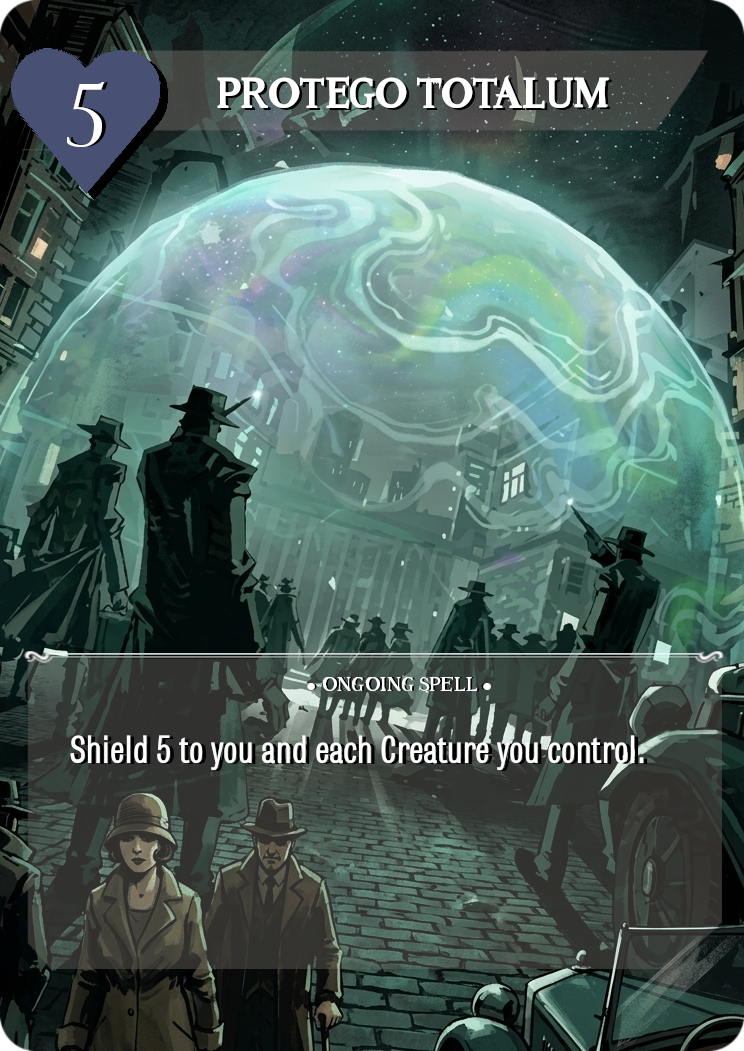
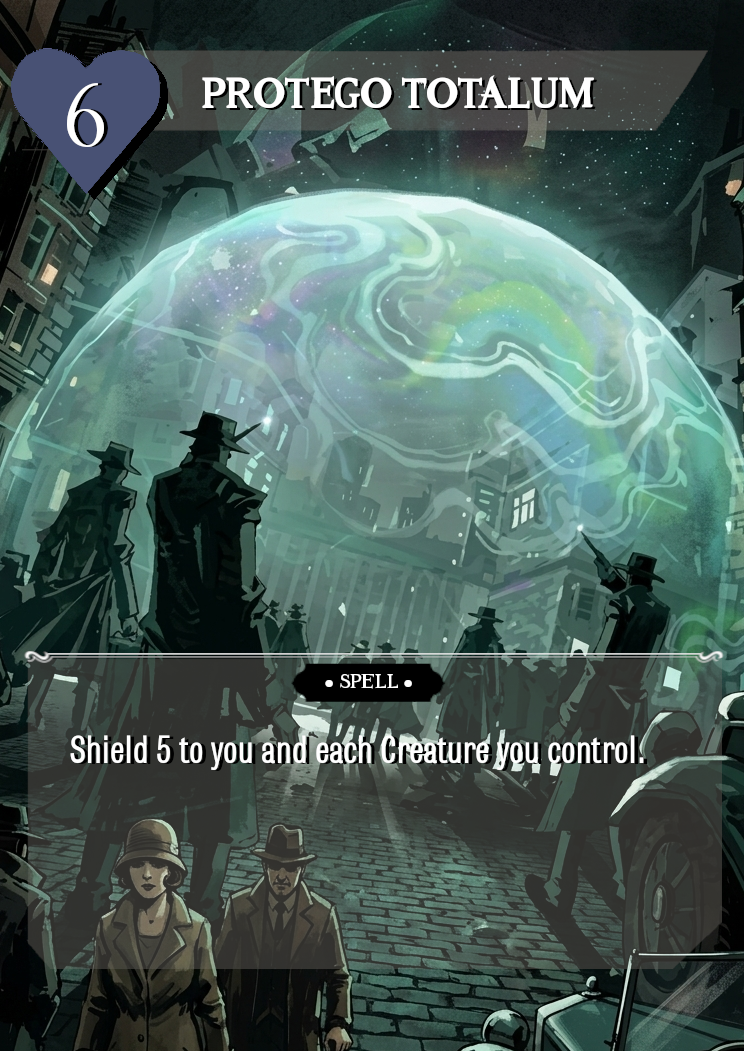
v1.80 New cards

diff --git a/index.html b/index.html
@@ -185,7 +185,7 @@
 <div class="modal" id="deckCodeModal" style="z-index:1100;width:min(620px,94vw)"><div style="display:flex;justify-content:space-between;align-items:center;gap:8px"><h2 id="deckCodeTitle" style="margin:0">Deck Code</h2><button onclick="closeDeckCodeModal()">Close</button></div><p id="deckCodeHelp"></p><textarea id="deckCodeInput" spellcheck="false" style="width:100%;height:135px;resize:vertical;background:#0e1116;color:#eee;border:1px solid #48515e;border-radius:7px;padding:10px;font:12px monospace;margin:8px 0"></textarea><div style="display:flex;justify-content:flex-end;gap:8px"><button id="deckCodeCopy" onclick="copyDeckCode()">Copy Code</button><button id="deckCodeImport" onclick="importDeckCode()">Import Deck</button></div></div><div class="deckModal" id="deckModal"><div class="deckBox"><div class="deckHead"><b id="deckTitle">Deck</b><button onclick="closeDeckViewer()">Close</button></div><div class="deckControls" id="deckControls"></div><div class="deckCards" id="deckCards"></div></div></div><script src="https://cdn.jsdelivr.net/npm/@supabase/supabase-js@2/dist/umd/supabase.js"></script><script>
 let id=1,phase='setup',turn=1,sel=null,selDeck=null,viewPlayer=1;const P={1:newP(),2:newP()};function newP(){return{main:[],lessonDeck:[],hand:[],handRevealed:false,lessons:[],play:[],discard:[],lessonDiscard:[],mull:[],char:null,life:20,actionsLeft:2,lessonsPlayed:0,dobbyUsed:false}}
 let history=[];function snapshot(){return JSON.parse(JSON.stringify({P,phase,turn}));}function pushHistory(){if(phase!=='game')return;history.push(snapshot());if(history.length>50)history.shift();}function undoMove(){if(lobbyMode==='invite'&&onlineStarted){requestOnlineUndo();return}if(phase!=='game'||!history.length){toast('Nothing to undo.');return}let h=history.pop();Object.keys(P).forEach(k=>P[k]=h.P[k]);phase=h.phase;turn=h.turn;sel=null;selDeck=null;render();document.getElementById('status').textContent='Player '+turn+' Turn';toast('Last action undone.')}
-const CARD_DB={"Harry Potter":{"type":"Ally","domain":"Neutral","cost":0,"effect":"Once per turn, when you play your second card, draw 1 card.","image":"cards/allies/char_harry.png"},"Ron Weasley":{"type":"Ally","domain":"Neutral","cost":0,"effect":"When you play an Ally, it costs 1 Action instead of 2.","image":"cards/allies/char_ron.png"},"Hermione Granger":{"type":"Ally","domain":"Neutral","cost":0,"effect":"Once per turn, when you play your second spell, draw 1 Lesson.","image":"cards/allies/char_hermione.png"},"Luna Lovegood":{"type":"Ally","domain":"Neutral","cost":0,"effect":"Once per turn, if you control 6 or more Lessons, you may discard 2 Lessons to create a Thestral Token.","image":"cards/allies/char_luna.png"},"Neville Longbottom":{"type":"Ally","domain":"Neutral","cost":0,"effect":"Once per turn, when you play a Creature, you may restore 2 Health to a Creature or Player.","image":"cards/allies/char_neville.png"},"Dobby":{"type":"Ally","domain":"Neutral","cost":0,"effect":"Once per turn, you may discard 2 Lessons to destroy a Spell targeting you.","image":"cards/allies/char_dobby.png"},"Aquamenti":{"type":"Spell","domain":"Charms","cost":2,"effect":"Deal 2 damage to a Creature or player.","image":"cards/charms/charm_aguamenti.png"},"Flipendo":{"type":"Quick Spell","domain":"Charms","cost":2,"effect":"Return a Creature with a Cost of 3 or less to its owner's hand.","image":"cards/charms/charm_flipendo.png"},"Stupefy":{"type":"Spell","domain":"Charms","cost":2,"effect":"Deal 2 damage to a Creature or Player. If your opponent controls exactly one Creature, deal 2 additional damage to that Creature or the player.","image":"cards/charms/charm_stupefy.png"},"Episkey":{"type":"Spell","domain":"Charms","cost":2,"effect":"Restore 4 Health to a Creature or Player.","image":"cards/charms/charm_episkey.png"},"Expelliarmus":{"type":"Spell","domain":"Charms","cost":3,"effect":"Deal 2 damage to a Player. Additional Cost — Discard 1 Lesson: Destroy an Ongoing Spell or an Item.","image":"cards/charms/charm_expelliarmus.png"},"Priori Incantatem":{"type":"Spell","domain":"Charms","cost":3,"effect":"Discard a card from your hand. Return a Spell from your discard pile to your hand.","image":"cards/charms/charm_priori.png"},"Protego":{"type":"Quick Spell","domain":"Charms","cost":3,"effect":"Shield 5 to a target.","image":"cards/charms/charm_protego.png"},"Atmospheric Charm":{"type":"Spell","domain":"Charms","cost":5,"effect":"Each Player shuffles their hand into their deck, then draws 4 cards.","image":"cards/charms/charm_atmospheric.png"},"Incendio":{"type":"Spell","domain":"Charms","cost":5,"effect":"Deal 4 damage to a target and 1 damage to each other valid target in play.","image":"cards/charms/charm_incendio.png"},"Reducto":{"type":"Spell","domain":"Charms","cost":6,"effect":"Deal 1 damage to your opponent, plus 1 additional damage for each damage they have taken.","image":"cards/charms/charm_reducto.png"},"Wildfire Whiz Bangs":{"type":"Spell","domain":"Charms","cost":7,"effect":"Deal 7 damage to a Creature or Player.","image":"cards/charms/charm_whizbangs.png"},"Apparate":{"type":"Quick Spell","domain":"Transfiguration","cost":1,"effect":"Choose one: Destroy a Location; or destroy a Spell targeting you.","image":"cards/transfiguration/transf_apparate.png"},"Avis":{"type":"Spell","domain":"Transfiguration","cost":2,"effect":"Additional Cost — Discard 1 Transfiguration Lesson: Create 2 Bird Tokens.","image":"cards/transfiguration/transf_avis.png"},"Confundus":{"type":"Quick Spell","domain":"Transfiguration","cost":2,"effect":"Choose one: Look at your opponent's hand; or return a Spell your opponent is playing to their hand.","image":"cards/transfiguration/transf_confundus.png"},"Incarcerous":{"type":"Spell","domain":"Transfiguration","cost":2,"effect":"The next Spell you play this turn that targets an opponent's card affects all valid targets controlled by that opponent instead of one.","image":"cards/transfiguration/transf_incarcerous.png"},"Bat Bogey Hex":{"type":"Quick Spell","domain":"Transfiguration","cost":3,"effect":"Destroy a Spell with a Cost of 4 or less. If you do, draw a card.","image":"cards/transfiguration/transf_batbogeyhex.png"},"Glacius":{"type":"Ongoing Spell","domain":"Transfiguration","cost":2,"effect":"Countdown 1: Freeze a target.","image":"cards/transfiguration/transf_glacius.png"},"Glacius Maxima":{"type":"Ongoing Spell","domain":"Transfiguration","cost":4,"effect":"Countdown 2: Freeze up to 3 targets.","image":"cards/transfiguration/transf_glaciusmaxima.png"},"Oppugno":{"type":"Ongoing Spell","domain":"Transfiguration","cost":3,"effect":"Countdown 1: Deal 1 damage to a Player, plus 1 additional damage for every 2 Creatures you control.","image":"cards/transfiguration/transf_oppugno.png"},"Petrificus Totalus":{"type":"Quick Spell","domain":"Transfiguration","cost":3,"effect":"Choose one: Destroy an ally; or freeze a creature.","image":"cards/transfiguration/transf_petrificus.png"},"Carpe Retractum":{"type":"Spell","domain":"Transfiguration","cost":3,"effect":"Return up to 2 items you control to your hand.","image":"cards/transfiguration/transf_carperetractum.png"},"Piertotum Locomotor":{"type":"Spell","domain":"Transfiguration","cost":6,"effect":"Create 2 Stone Guardian Tokens.","image":"cards/transfiguration/transf_piertotum.png"},"Pawn":{"type":"Creature","domain":"Neutral","cost":2,"health":1,"damage":1,"effect":"When this is destroyed: draw 1 card.","image":"cards/creatures/creature_pawn.png"},"Bowtruckle":{"type":"Creature","domain":"Neutral","cost":2,"health":2,"damage":1,"effect":"When this enters play: look at the top 3 cards of your deck. You may reveal an Item among them and put it into your hand. Put the rest on the bottom.","image":"cards/creatures/creature_bowtruckle.png"},"Mooncalf":{"type":"Creature","domain":"Neutral","cost":2,"health":2,"damage":1,"effect":"The first time you play a Lesson each turn: Mooncalf gets +1 Damage until end of turn.","image":"cards/creatures/creature_mooncalf.png"},"Niffler":{"type":"Creature","domain":"Neutral","cost":2,"health":2,"damage":0,"effect":"Niffler counts as a Lesson while in play.","image":"cards/creatures/creature_niffler.png"},"Pixies":{"type":"Creature","domain":"Neutral","cost":2,"health":1,"damage":2,"effect":"When this enters play: if you control another Creature, draw 1 card.","image":"cards/creatures/creature_pixies.png"},"Snowman":{"type":"Creature","domain":"Neutral","cost":2,"health":3,"damage":1,"effect":"When this deals damage to a Player, Freeze an opposing Creature.","image":"cards/creatures/creature_snowman.png"},"Firecrab":{"type":"Creature","domain":"Neutral","cost":3,"health":4,"damage":2,"effect":"Block (You must deal damage to me first).","image":"cards/creatures/creature_firecrab.png"},"Monster Book":{"type":"Creature","domain":"Neutral","cost":3,"health":3,"damage":2,"effect":"When this enters play: return a Spell with Cost 3 or less from your discard pile to your hand.","image":"cards/creatures/creature_mosterbook.png"},"Transfiguration Lesson":{"type":"Lesson","cost":0,"domain":"Transfiguration","image":"cards/lessons/lesson_transfiguration.png"},"Charm Lesson":{"type":"Lesson","cost":0,"domain":"Charms","image":"cards/lessons/lesson_charm.png"},"Quidditch Lesson":{"type":"Lesson","cost":0,"domain":"Quidditch","image":"cards/lessons/lesson_quidditch.png"},"Potions & Items Lesson":{"type":"Lesson","cost":0,"domain":"Potions","image":"cards/lessons/lesson_potions.png"},"Dark Arts Lesson":{"type":"Lesson","cost":0,"domain":"Dark Arts","image":"cards/lessons/lesson_dark.png"},"Flying Broom":{"type":"Item","domain":"Quidditch","cost":2,"effect":"When this enters play, choose one: Draw 1 card or Discard a card to Draw a lesson.","image":"cards/quidditch/quidd_broom.png"},"Golden Snitch":{"type":"Item","domain":"Quidditch","cost":2,"effect":"When this enters play or is returned to its owner's hand, you may draw 1 card.","image":"cards/quidditch/quidd_snitch.png"},"Golden Snidget":{"type":"Creature","domain":"Quidditch","cost":2,"life":2,"damage":2,"effect":"Whenever this deals damage to a Player, draw a card.","image":"cards/quidditch/quidd_snidget.png"},"Bludger":{"type":"Item","domain":"Quidditch","cost":3,"effect":"When this enters play or is returned to its owner's hand, deal 2 damage to a target.","image":"cards/quidditch/quidd_bludger.png"},"Quidditch Kit":{"type":"Item","domain":"Quidditch","cost":3,"effect":"The first time you play a Quidditch card each turn, look at the top 2 cards of your deck. Put one into your hand and the other on the bottom.","image":"cards/quidditch/quidd_kit.png"},"Winged Catapult":{"type":"Creature","domain":"Quidditch","cost":3,"life":3,"damage":2,"effect":"Whenever this deals damage to a Player, look at the top card of your deck. You may put it on the bottom.","image":"cards/quidditch/quidd_winged.png"},"Beater":{"type":"Ally","domain":"Quidditch","cost":"-","effect":"Once per turn, you may discard a card: Return a Quidditch Item to its owner's hand.","image":"cards/quidditch/quidd_beater.png"},"Seeker":{"type":"Ally","domain":"Quidditch","cost":"-","effect":"Once per turn, search your deck for a Golden Snitch or Quidditch Item, reveal it, put it into your hand, then shuffle.","image":"cards/quidditch/quidd_seeker.png"},"Guardian":{"type":"Ally","domain":"Quidditch","cost":"-","effect":"When damage would be dealt to you or a Quidditch Creature you control, discard me to prevent that damage.","image":"cards/quidditch/quidd_guardian.png"},"Memory Vial":{"type":"Item","domain":"Potions","cost":3,"effect":"Once per turn, you may discard a card from your hand to draw a Lesson.","image":"cards/potions/potinos_memoryvial.png"},"Weasley Firework Box":{"type":"Item","domain":"Potions","cost":4,"effect":"All the creatures your control deal 1 aditional damage.","image":"cards/potions/potinos_wealeyfireworks.png"},"Stone Guardian":{"type":"Creature","domain":"Neutral","cost":0,"health":4,"life":4,"damage":1,"effect":"Block (You must deal damage to me first).","image":"cards/tokens/token_stoneguardian.png","token":true},"Luna's Thestral":{"type":"Creature","domain":"Neutral","cost":0,"health":3,"life":3,"damage":3,"effect":"Sacrifice this and discard 2 Lessons: Deal 2 damage to a target, plus 1 additional damage for each Spell in your discard pile.","image":"cards/tokens/token_thestrals.png","token":true},"Magical Birds":{"type":"Creature","domain":"Neutral","cost":0,"health":1,"life":1,"damage":1,"effect":"","image":"cards/tokens/token_magicalbirds.png","token":true},"Diffindo":{"type":"Spell","domain":"Transfiguration","cost":5,"effect":"Deal 3 damage to a target. Then, deal 3 damage to each Frozen target.","image":"cards/transfiguration/transf_diffindo.png"},"Yeti":{"type":"Creature","domain":"Neutral","cost":5,"health":5,"damage":3,"effect":"Countdown 2: Freeze up to 3 targets.","image":"cards/creatures/creature_yeti.png"},"Orb of Water":{"type":"Ongoing Spell","domain":"Transfiguration","cost":6,"effect":"Countdown 1: Freeze up to 3 targets and deal 1 damage to each of them. When this card is discarded, deal 3 damage to the same targets.","image":"cards/transfiguration/transf_orb.png"},"Accio":{"type":"Spell","domain":"Charms","cost":3,"effect":"Return a Lesson from your discard pile to play.","image":"cards/charms/charm_accio.png"},"Wingardium Leviosa":{"type":"Spell","domain":"Charms","cost":3,"effect":"Additional Cost — Discard 1 Lesson: You may return an Item you control to your hand. If you paid the additional cost, return an Item from your discard pile to your hand.","image":"cards/charms/charm_wingardium.png"}};const BACKS={main:'cards/backs/main_back.png',lesson:'cards/backs/lesson_back.png'};const cards=Object.entries(CARD_DB).filter(([n,d])=>d.type!=='Lesson'&&!d.token).map(([n,d])=>[n,d.type,d.cost]);
+const CARD_DB={"Harry Potter":{"type":"Ally","domain":"Neutral","cost":0,"effect":"Once per turn, when you play your second card, draw 1 card.","image":"cards/allies/char_harry.png"},"Ron Weasley":{"type":"Ally","domain":"Neutral","cost":0,"effect":"When you play an Ally, it costs 1 Action instead of 2.","image":"cards/allies/char_ron.png"},"Hermione Granger":{"type":"Ally","domain":"Neutral","cost":0,"effect":"Once per turn, when you play your second spell, draw 1 Lesson.","image":"cards/allies/char_hermione.png"},"Luna Lovegood":{"type":"Ally","domain":"Neutral","cost":0,"effect":"Once per turn, if you control 6 or more Lessons, you may discard 2 Lessons to create a Thestral Token.","image":"cards/allies/char_luna.png"},"Neville Longbottom":{"type":"Ally","domain":"Neutral","cost":0,"effect":"Once per turn, when you play a Creature, you may restore 2 Health to a Creature or Player.","image":"cards/allies/char_neville.png"},"Dobby":{"type":"Ally","domain":"Neutral","cost":0,"effect":"Once per turn, you may discard 2 Lessons to destroy a Spell targeting you.","image":"cards/allies/char_dobby.png"},"Aquamenti":{"type":"Spell","domain":"Charms","cost":2,"effect":"Deal 2 damage to a Creature or player.","image":"cards/charms/charm_aguamenti.png"},"Flipendo":{"type":"Quick Spell","domain":"Charms","cost":2,"effect":"Return a Creature with a Cost of 3 or less to its owner's hand.","image":"cards/charms/charm_flipendo.png"},"Stupefy":{"type":"Spell","domain":"Charms","cost":2,"effect":"Deal 2 damage to a Creature or Player. If your opponent controls exactly one Creature, deal 2 additional damage to that Creature or the player.","image":"cards/charms/charm_stupefy.png"},"Episkey":{"type":"Spell","domain":"Charms","cost":2,"effect":"Restore 4 Health to a Creature or Player.","image":"cards/charms/charm_episkey.png"},"Expelliarmus":{"type":"Spell","domain":"Charms","cost":3,"effect":"Deal 2 damage to a Player. Additional Cost — Discard 1 Lesson: Destroy an Ongoing Spell or an Item.","image":"cards/charms/charm_expelliarmus.png"},"Priori Incantatem":{"type":"Spell","domain":"Charms","cost":3,"effect":"Discard a card from your hand. Return a Spell from your discard pile to your hand.","image":"cards/charms/charm_priori.png"},"Protego":{"type":"Quick Spell","domain":"Charms","cost":3,"effect":"Shield 5 to a target.","image":"cards/charms/charm_protego.png"},"Atmospheric Charm":{"type":"Spell","domain":"Charms","cost":5,"effect":"Each Player shuffles their hand into their deck, then draws 4 cards.","image":"cards/charms/charm_atmospheric.png"},"Incendio":{"type":"Spell","domain":"Charms","cost":5,"effect":"Deal 4 damage to a target and 1 damage to each other valid target in play.","image":"cards/charms/charm_incendio.png"},"Reducto":{"type":"Spell","domain":"Charms","cost":6,"effect":"Deal 1 damage to your opponent, plus 1 additional damage for each damage they have taken.","image":"cards/charms/charm_reducto.png"},"Wildfire Whiz Bangs":{"type":"Spell","domain":"Charms","cost":7,"effect":"Deal 7 damage to a Creature or Player.","image":"cards/charms/charm_whizbangs.png"},"Apparate":{"type":"Quick Spell","domain":"Transfiguration","cost":1,"effect":"Choose one: Destroy a Location; or destroy a Spell targeting you.","image":"cards/transfiguration/transf_apparate.png"},"Avis":{"type":"Spell","domain":"Transfiguration","cost":2,"effect":"Additional Cost — Discard 1 Transfiguration Lesson: Create 2 Bird Tokens.","image":"cards/transfiguration/transf_avis.png"},"Confundus":{"type":"Quick Spell","domain":"Transfiguration","cost":2,"effect":"Choose one: Look at your opponent's hand; or return a Spell your opponent is playing to their hand.","image":"cards/transfiguration/transf_confundus.png"},"Incarcerous":{"type":"Spell","domain":"Transfiguration","cost":2,"effect":"The next Spell you play this turn that targets an opponent's card affects all valid targets controlled by that opponent instead of one.","image":"cards/transfiguration/transf_incarcerous.png"},"Bat Bogey Hex":{"type":"Quick Spell","domain":"Transfiguration","cost":3,"effect":"Destroy a Spell with a Cost of 4 or less. If you do, draw a card.","image":"cards/transfiguration/transf_batbogeyhex.png"},"Glacius":{"type":"Ongoing Spell","domain":"Transfiguration","cost":2,"effect":"Countdown 1: Freeze a target.","image":"cards/transfiguration/transf_glacius.png"},"Glacius Maxima":{"type":"Ongoing Spell","domain":"Transfiguration","cost":4,"effect":"Countdown 2: Freeze up to 3 targets.","image":"cards/transfiguration/transf_glaciusmaxima.png"},"Oppugno":{"type":"Ongoing Spell","domain":"Transfiguration","cost":3,"effect":"Countdown 1: Deal 1 damage to a Player, plus 1 additional damage for every 2 Creatures you control.","image":"cards/transfiguration/transf_oppugno.png"},"Petrificus Totalus":{"type":"Quick Spell","domain":"Transfiguration","cost":3,"effect":"Choose one: Destroy an ally; or freeze a creature.","image":"cards/transfiguration/transf_petrificus.png"},"Carpe Retractum":{"type":"Spell","domain":"Transfiguration","cost":3,"effect":"Return up to 2 items you control to your hand.","image":"cards/transfiguration/transf_carperetractum.png"},"Piertotum Locomotor":{"type":"Spell","domain":"Transfiguration","cost":6,"effect":"Create 2 Stone Guardian Tokens.","image":"cards/transfiguration/transf_piertotum.png"},"Pawn":{"type":"Creature","domain":"Neutral","cost":2,"health":1,"damage":1,"effect":"When this is destroyed: draw 1 card.","image":"cards/creatures/creature_pawn.png"},"Bowtruckle":{"type":"Creature","domain":"Neutral","cost":2,"health":2,"damage":1,"effect":"When this enters play: look at the top 3 cards of your deck. You may reveal an Item among them and put it into your hand. Put the rest on the bottom.","image":"cards/creatures/creature_bowtruckle.png"},"Mooncalf":{"type":"Creature","domain":"Neutral","cost":2,"health":2,"damage":1,"effect":"The first time you play a Lesson each turn: Mooncalf gets +1 Damage until end of turn.","image":"cards/creatures/creature_mooncalf.png"},"Niffler":{"type":"Creature","domain":"Neutral","cost":2,"health":2,"damage":0,"effect":"Niffler counts as a Lesson while in play.","image":"cards/creatures/creature_niffler.png"},"Pixies":{"type":"Creature","domain":"Neutral","cost":2,"health":1,"damage":2,"effect":"When this enters play: if you control another Creature, draw 1 card.","image":"cards/creatures/creature_pixies.png"},"Snowman":{"type":"Creature","domain":"Neutral","cost":2,"health":3,"damage":1,"effect":"When this deals damage to a Player, Freeze an opposing Creature.","image":"cards/creatures/creature_snowman.png"},"Firecrab":{"type":"Creature","domain":"Neutral","cost":3,"health":4,"damage":2,"effect":"Block (You must deal damage to me first).","image":"cards/creatures/creature_firecrab.png"},"Monster Book":{"type":"Creature","domain":"Neutral","cost":3,"health":3,"damage":2,"effect":"When this enters play: return a Spell with Cost 3 or less from your discard pile to your hand.","image":"cards/creatures/creature_mosterbook.png"},"Transfiguration Lesson":{"type":"Lesson","cost":0,"domain":"Transfiguration","image":"cards/lessons/lesson_transfiguration.png"},"Charm Lesson":{"type":"Lesson","cost":0,"domain":"Charms","image":"cards/lessons/lesson_charm.png"},"Quidditch Lesson":{"type":"Lesson","cost":0,"domain":"Quidditch","image":"cards/lessons/lesson_quidditch.png"},"Potions & Items Lesson":{"type":"Lesson","cost":0,"domain":"Potions","image":"cards/lessons/lesson_potions.png"},"Dark Arts Lesson":{"type":"Lesson","cost":0,"domain":"Dark Arts","image":"cards/lessons/lesson_dark.png"},"Flying Broom":{"type":"Item","domain":"Quidditch","cost":2,"effect":"When this enters play, choose one: Draw 1 card or Discard a card to Draw a lesson.","image":"cards/quidditch/quidd_broom.png"},"Golden Snitch":{"type":"Item","domain":"Quidditch","cost":2,"effect":"When this enters play or is returned to its owner's hand, you may draw 1 card.","image":"cards/quidditch/quidd_snitch.png"},"Golden Snidget":{"type":"Creature","domain":"Quidditch","cost":2,"life":2,"damage":2,"effect":"Whenever this deals damage to a Player, draw a card.","image":"cards/quidditch/quidd_snidget.png"},"Bludger":{"type":"Item","domain":"Quidditch","cost":3,"effect":"When this enters play or is returned to its owner's hand, deal 2 damage to a target.","image":"cards/quidditch/quidd_bludger.png"},"Quidditch Kit":{"type":"Item","domain":"Quidditch","cost":3,"effect":"The first time you play a Quidditch card each turn, look at the top 2 cards of your deck. Put one into your hand and the other on the bottom.","image":"cards/quidditch/quidd_kit.png"},"Winged Catapult":{"type":"Creature","domain":"Quidditch","cost":3,"life":3,"damage":2,"effect":"Whenever this deals damage to a Player, look at the top card of your deck. You may put it on the bottom.","image":"cards/quidditch/quidd_winged.png"},"Beater":{"type":"Ally","domain":"Quidditch","cost":"-","effect":"Once per turn, you may discard a card: Return a Quidditch Item to its owner's hand.","image":"cards/quidditch/quidd_beater.png"},"Seeker":{"type":"Ally","domain":"Quidditch","cost":"-","effect":"Once per turn, search your deck for a Golden Snitch or Quidditch Item, reveal it, put it into your hand, then shuffle.","image":"cards/quidditch/quidd_seeker.png"},"Guardian":{"type":"Ally","domain":"Quidditch","cost":"-","effect":"When damage would be dealt to you or a Quidditch Creature you control, discard me to prevent that damage.","image":"cards/quidditch/quidd_guardian.png"},"Memory Vial":{"type":"Item","domain":"Potions","cost":3,"effect":"Once per turn, you may discard a card from your hand to draw a Lesson.","image":"cards/potions/potinos_memoryvial.png"},"Weasley Firework Box":{"type":"Item","domain":"Potions","cost":4,"effect":"All the creatures your control deal 1 aditional damage.","image":"cards/potions/potinos_wealeyfireworks.png"},"Stone Guardian":{"type":"Creature","domain":"Neutral","cost":0,"health":4,"life":4,"damage":1,"effect":"Block (You must deal damage to me first).","image":"cards/tokens/token_stoneguardian.png","token":true},"Luna's Thestral":{"type":"Creature","domain":"Neutral","cost":0,"health":3,"life":3,"damage":3,"effect":"Sacrifice this and discard 2 Lessons: Deal 2 damage to a target, plus 1 additional damage for each Spell in your discard pile.","image":"cards/tokens/token_thestrals.png","token":true},"Magical Birds":{"type":"Creature","domain":"Neutral","cost":0,"health":1,"life":1,"damage":1,"effect":"","image":"cards/tokens/token_magicalbirds.png","token":true},"Diffindo":{"type":"Spell","domain":"Transfiguration","cost":5,"effect":"Deal 3 damage to a target. Then, deal 3 damage to each Frozen target.","image":"cards/transfiguration/transf_diffindo.png"},"Yeti":{"type":"Creature","domain":"Neutral","cost":5,"health":5,"damage":3,"effect":"Countdown 2: Freeze up to 3 targets.","image":"cards/creatures/creature_yeti.png"},"Orb of Water":{"type":"Ongoing Spell","domain":"Transfiguration","cost":6,"effect":"Countdown 1: Freeze up to 3 targets and deal 1 damage to each of them. When this card is discarded, deal 3 damage to the same targets.","image":"cards/transfiguration/transf_orb.png"},"Accio":{"type":"Spell","domain":"Charms","cost":3,"effect":"Return a Lesson from your discard pile to play.","image":"cards/charms/charm_accio.png"},"Wingardium Leviosa":{"type":"Spell","domain":"Charms","cost":3,"effect":"Additional Cost — Discard 1 Lesson: You may return an Item you control to your hand. If you paid the additional cost, return an Item from your discard pile to your hand.","image":"cards/charms/charm_wingardium.png"},"Nebulus":{"type":"Ongoing Spell","domain":"Charms","cost":4,"effect":"Countdown 2: Your opponent cannot target you with cards they control.","image":"cards/charms/charm_wingardium.png"},"Protego Totalum":{"type":"Spell","domain":"Charms","cost":6,"effect":"Shield 5 to you and each Creature you control.","image":"cards/charms/charm_protego_t.png"},"Slug Vomiting Charm":{"type":"Ongoing Spell","domain":"Charms","cost":2,"effect":"Countdown 2: Freeze your opponent's Starting Ally. Then, your opponent discards a card.","image":"cards/charms/charm_slugs.png"},"Expecto Patronus":{"type":"Spell","domain":"Transfiguration","cost":4,"effect":"Destroy a Creature with a Cost of 5 or less then draw 1. If it was a Dementor, draw 2.","image":"cards/transfiguration/transf_patronus.png"}};const BACKS={main:'cards/backs/main_back.png',lesson:'cards/backs/lesson_back.png'};const cards=Object.entries(CARD_DB).filter(([n,d])=>d.type!=='Lesson'&&!d.token).map(([n,d])=>[n,d.type,d.cost]);
 function C(n,t,c,img=null){return{id:id++,name:n,type:t,cost:c,counter:0,life:t==='Creature'?null:null,image:img,face:1,tapped:false,frozen:false,shield:false,rot:0,x:10,y:10}}function sh(a){for(let i=a.length-1;i>0;i--){let j=Math.random()*(i+1)|0;[a[i],a[j]]=[a[j],a[i]]}return a}function cardFromDB(name,extra={}){let d=CARD_DB[name];if(!d)throw new Error('Card not found in database: '+name);return C(name,d.type,d.cost,extra.image||d.image||null)}function buildCards(list){return list.flatMap(entry=>{if(typeof entry==='string')return[cardFromDB(entry)];let n=entry.name,count=entry.count||1;return Array.from({length:count},()=>cardFromDB(n,entry))})}function draw(p,n=1){while(n--&&P[p].main.length)P[p].hand.push(P[p].main.pop())}function toast(t){let x=document.getElementById('toast');x.textContent=t;x.classList.add('show');setTimeout(()=>x.classList.remove('show'),1300)}
 let loadedDecks={1:null,2:null};
 let savedDecks=loadSavedDecks();
